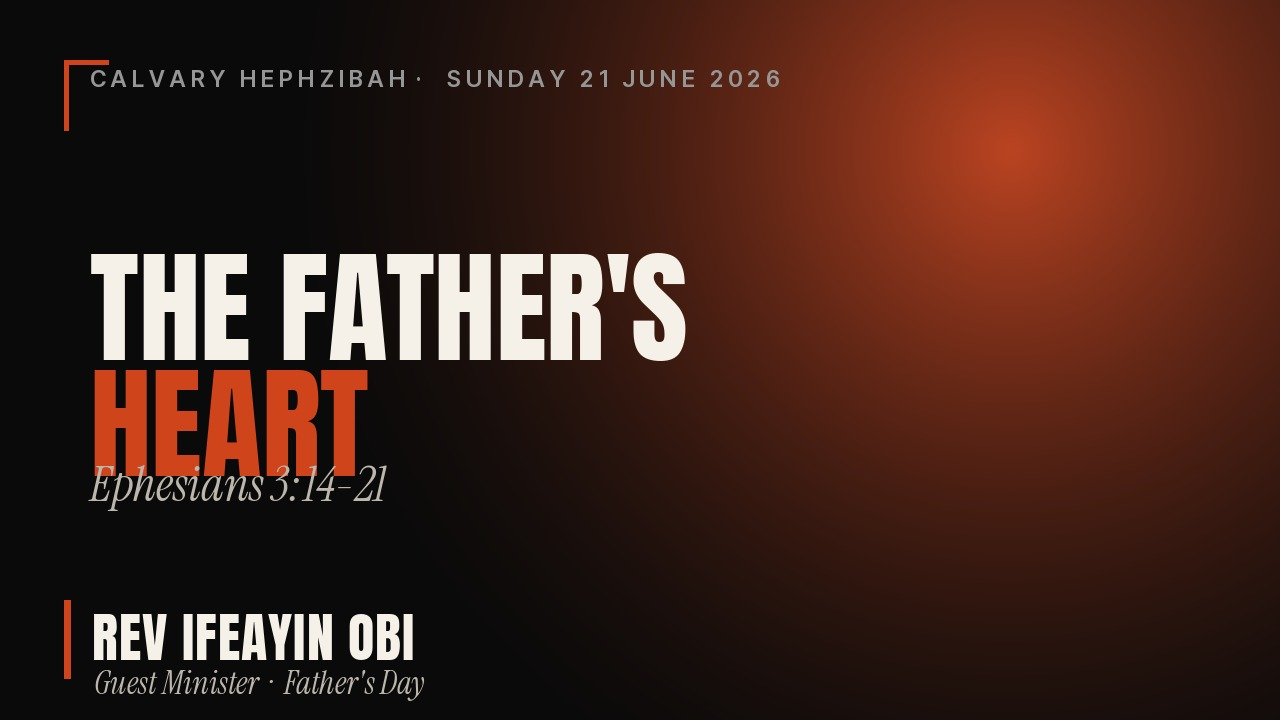
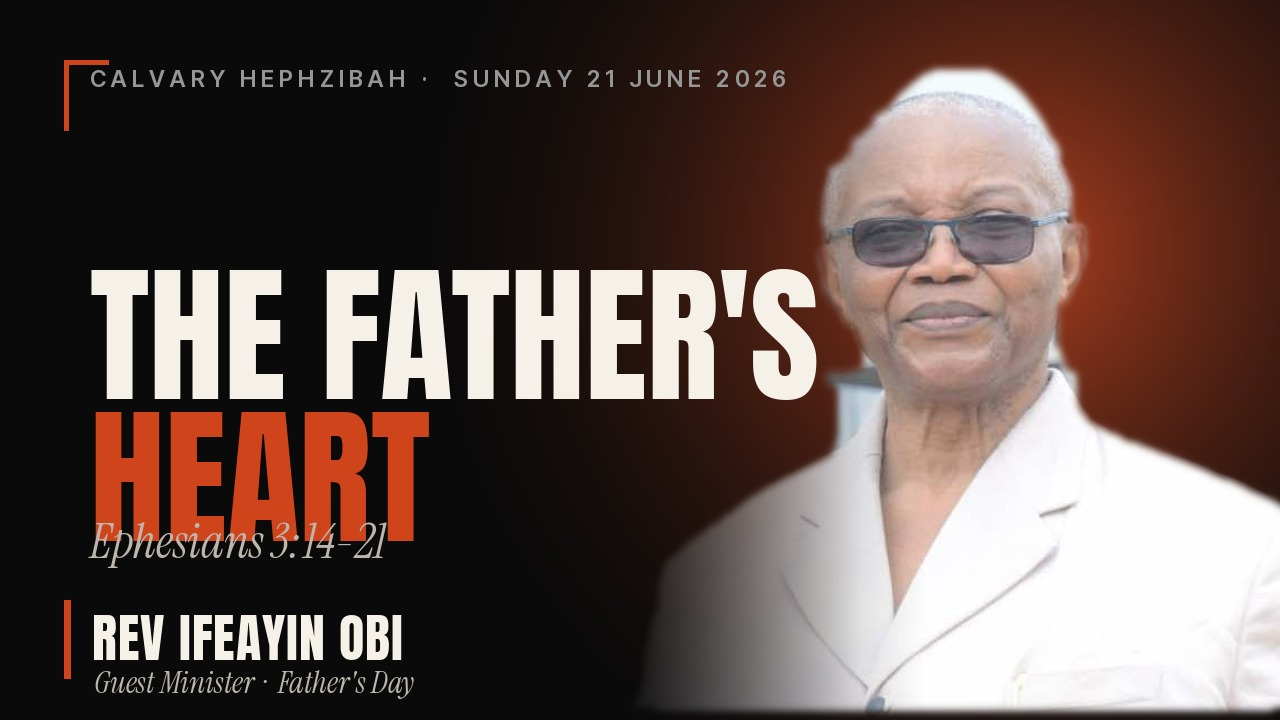
21 Jun: sermon thumbnail / OG image now features Rev Ifeayin Obi's photo; cache-bust v2

diff --git a/media-briefing-21-jun-2026.html b/media-briefing-21-jun-2026.html
@@ -6,11 +6,11 @@
     <title>Calvary Service Run Sheet – 21st June 2026</title>
     <meta property="og:title" content="Calvary Service Run Sheet – 21st June 2026">
     <meta property="og:description" content="Sunday 21st June 2026 | Father&#39;s Day | The Father&#39;s Heart | Rev Ifeayin Obi | Calvary Hephzibah">
-    <meta property="og:image" content="https://calvaryhfgc.github.io/calvaryhephzibah/sermon-thumbnail-21-jun-2026.jpg?v=1">
+    <meta property="og:image" content="https://calvaryhfgc.github.io/calvaryhephzibah/sermon-thumbnail-21-jun-2026.jpg?v=2">
     <meta property="og:image:width" content="1280">
     <meta property="og:image:height" content="720">
     <meta name="twitter:card" content="summary_large_image">
-    <meta name="twitter:image" content="https://calvaryhfgc.github.io/calvaryhephzibah/sermon-thumbnail-21-jun-2026.jpg?v=1">
+    <meta name="twitter:image" content="https://calvaryhfgc.github.io/calvaryhephzibah/sermon-thumbnail-21-jun-2026.jpg?v=2">
     <link rel="preconnect" href="https://fonts.googleapis.com">
     <link rel="preconnect" href="https://fonts.gstatic.com" crossorigin>
     <link href="https://fonts.googleapis.com/css2?family=Cormorant+Garamond:wght@600;700&family=DM+Sans:wght@400;500;600;700&display=swap" rel="stylesheet">
@@ -239,7 +239,7 @@
             <div class="serm-preacher">Rev Ifeayin Obi <span style="opacity:0.5;font-weight:500;">· Guest Minister</span></div>
             <h3 class="serm-title">The Father’s Heart</h3>
             <div style="font-size:13px;color:rgba(255,255,255,0.6);margin-bottom:14px;">Ephesians 3:14-21</div>
-            <img src="https://calvaryhfgc.github.io/calvaryhephzibah/sermon-thumbnail-21-jun-2026.jpg?v=1" alt="Rev Ifeayin Obi — The Father’s Heart" class="serm-thumb">
+            <img src="https://calvaryhfgc.github.io/calvaryhephzibah/sermon-thumbnail-21-jun-2026.jpg?v=2" alt="Rev Ifeayin Obi — The Father’s Heart" class="serm-thumb">
             <div class="serm-note"><span>💡</span><span>Display sermon thumbnail for 30 seconds as Rev Ifeayin Obi comes up to preach.</span></div>
         </div>
     </div>
